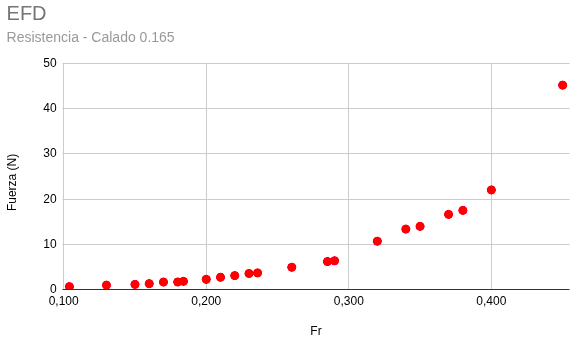
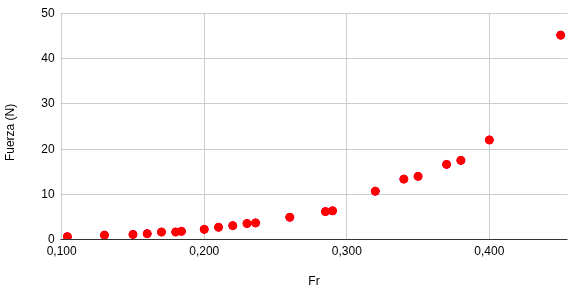
correccioens de referencias y recorte de imagenes

diff --git a/7.resistencia_factor_de_forma.tex b/7.resistencia_factor_de_forma.tex
@@ -50,28 +50,38 @@ Las Figuras~\ref{fig:resis_tpa_165} a \ref{fig:resis_tpa_195} muestran las curva
 
 
 \begin{figure}[htpb]
-\centering
-\includegraphics[width=0.6\textwidth]{images/efd-165}
-\caption{Resistencia al avance en función de Fr. Calado 1.}
-\label{fig:resis_tpa_165}
+     \centering
+     % --- Primera fila: Calados 1 y 2 ---
+     \begin{subfigure}[b]{0.45\textwidth}
+         \centering
+         \includegraphics[width=\textwidth]{images/efd-165}
+         \caption{Calado 1.}
+         \label{fig:resis_tpa_165}
+     \end{subfigure}
+     \hfill
+     \begin{subfigure}[b]{0.45\textwidth}
+         \centering
+         \includegraphics[width=\textwidth]{images/efd-180}
+         \caption{Calado 2.}
+         \label{fig:resis_tpa_180}
+     \end{subfigure}
+     
+     \vspace{0.5cm} % Espacio entre filas
+     
+     % --- Segunda fila: Calado 3 centrado ---
+     \begin{subfigure}[b]{0.45\textwidth}
+         \centering
+         \includegraphics[width=\textwidth]{images/efd-195}
+         \caption{Calado 3.}
+         \label{fig:resis_tpa_195}
+     \end{subfigure}
+     
+     \caption{Resistencia al avance (EFD) en función de Fr para diferentes calados.}
+     \label{fig:comparativa_efd_calados}
 \end{figure}
 
-\begin{figure}[htpb]
-\centering
-\includegraphics[width=0.6\textwidth]{images/efd-180}
-\caption{Resistencia al avance en función de Fr. Calado 2.}
-\label{fig:resis_tpa_180}
-\end{figure}
 
-\begin{figure}[htpb]
-\centering
-\includegraphics[width=0.6\textwidth]{images/efd-195}
-\caption{Resistencia al avance en función de Fr. Calado 3.}
-\label{fig:resis_tpa_195}
-\end{figure}
-
-
-\subsection{Determinación experimental del factor de forma.}
+\subsection{Determinación experimental del factor de forma}\label{sec:det_exp_fac_form}
 
 A partir de los resultados experimentales obtenidos para las distintas velocidades y condiciones de calado, se construyeron los diagramas del método de Prohaska, graficando $\frac{C_T}{C_F}$ frente a $\frac{F_n^4}{C_F}$ (Figura~\ref{fig:prohaska_tpa}).  
 Cada conjunto de puntos corresponde a un calado diferente del Pesquero 1.  
@@ -165,7 +175,7 @@ En síntesis, la desviación respecto de la recta teórica del método de Prohas
   \item Incertidumbres experimentales en la medición de resistencia total.
 \end{itemize}
 
-En las secciones XX XX XX se presenta el impacto de la proa bulbo, la popa espejo sumergida y la elección de la linea de correlación en la determinación del factor de forma.
+En las secciones \ref{sec:proa_bulbo}, \ref{sec:popa_sumergida} y \ref{sec:linea_de_friccion} se presenta el impacto de la proa bulbo, la popa espejo sumergida y la elección de la linea de correlación en la determinación del factor de forma.
 
 \vspace{1em}
 \subsubsection{Modelo de referencia KCS} 
@@ -223,30 +233,40 @@ A continuación, en la Figura \ref{fig:CFD_olas_195_Fr45} se presenta a modo ilu
 
 
 \begin{figure}[htpb]
-\centering
-\includegraphics[width=0.6\textwidth]{images/cfd-165}
-\caption{Resistencia al avance en función de Fr. Calado 1.}
-\label{fig:cfd_165_tpa}
+     \centering
+     % --- Primera fila (2 imágenes) ---
+     \begin{subfigure}[b]{0.45\textwidth}
+         \centering
+         \includegraphics[width=\textwidth]{images/cfd-165}
+         \caption{Calado 1.}
+         \label{fig:cfd_165_tpa}
+     \end{subfigure}
+     \hfill
+     \begin{subfigure}[b]{0.45\textwidth}
+         \centering
+         \includegraphics[width=\textwidth]{images/cfd-180}
+         \caption{Calado 2.}
+         \label{fig:cfd_180_tpa}
+     \end{subfigure}
+     
+     \vspace{0.5cm} % Espacio vertical entre filas
+     
+     % --- Segunda fila (1 imagen centrada) ---
+     \begin{subfigure}[b]{0.45\textwidth}
+         \centering
+         \includegraphics[width=\textwidth]{images/cfd-195}
+         \caption{Calado 3.}
+         \label{fig:cfd_195_tpa}
+     \end{subfigure}
+     
+     \caption{Resistencia al avance en función de Fr para diferentes calados.}
+     \label{fig:comparativa_calados}
 \end{figure}
 
-\begin{figure}[htpb]
-\centering
-\includegraphics[width=0.6\textwidth]{images/cfd-180}
-\caption{Resistencia al avance en función de Fr. Calado 2.}
-\label{fig:cfd_180_tpa}
-\end{figure}
 
-\begin{figure}[htpb]
-\centering
-\includegraphics[width=0.6\textwidth]{images/cfd-195}
-\caption{Resistencia al avance en función de Fr. Calado 3.}
-\label{fig:cfd_195_tpa}
-\end{figure}
+\subsection{Determinación numérica del factor de forma}\label{sec:det_num_fac_form}
 
-
-\subsection{Determinación numérica del factor de forma.}
-
-Para la determinación computacional del factor de forma se implementaron dos métodos. El primero fue repetir lo propuesto por Prohaska para lo tres calados con el dominio presentado en la Figura \ref{fig:dominio}, lo que permite una comparación directa con el ensayo experimental. Como sucedió en los ensayos experimentales, a bajas velocidades también se observa en los ensayos CFD una separación de los puntos respecto de la recta teórica esperada, pero esta vez de forma cóncava en lugar de convexa, como se ve en la Figura \ref{fig:prohaska_tpa_cfd}.
+Para la determinación computacional del factor de forma se implementaron dos métodos. El primero fue repetir lo propuesto por Prohaska para lo tres calados con el dominio presentado en la Figura \ref{fig:dominio_metodologia}, lo que permite una comparación directa con el ensayo experimental. Como sucedió en los ensayos experimentales, a bajas velocidades también se observa en los ensayos CFD una separación de los puntos respecto de la recta teórica esperada, pero esta vez de forma cóncava en lugar de convexa, como se ve en la Figura \ref{fig:prohaska_tpa_cfd}.
 
 
 \begin{figure}[htpb]
@@ -267,11 +287,11 @@ Al igual que se hizo con los ensayos experimentales, se repite el análisis de r
 \label{fig:tpa_range_cfd}
 \end{figure}
 
-\subsection{Enfoque de Doble Cuerpo (Double Body)}
+\subsection{Enfoque de Doble Cuerpo}
 
-Ante las dificultades observadas para aplicar el método de Prohaska en el entorno numérico —debido a la incertidumbre en la transición de la turbulencia y la curvatura a bajas velocidades— se optó por una estrategia alternativa: el método de \textit{doble cuerpo}.
+Ante las dificultades observadas para aplicar el método de Prohaska en el entorno numérico, debido a la incertidumbre en la transición de la turbulencia y la curvatura a bajas velocidades, se optó por una estrategia alternativa: el método de \textit{doble cuerpo}.
 
-Como se detalló en la Sección 3.4.2, este enfoque elimina la superficie libre y la formación de olas, modelando el fluido como un medio infinito y el casco como un cuerpo reflejado (ver Figura \ref{fig:double_body_domain}). Esto permite aislar la resistencia viscosa ($R_V$) y calcular el factor de forma $(1+k)$ directamente para cada velocidad mediante la relación $C_V / C_{F,ref}$, sin depender de la extrapolación a velocidad cero.
+Como se detalló en la Sección \ref{sec:doble_cuerpo}, este enfoque elimina la superficie libre y la formación de olas, modelando el fluido como un medio infinito y el casco como un cuerpo reflejado (ver Figura \ref{fig:double_body_domain}). Esto permite aislar la resistencia viscosa ($R_V$) y calcular el factor de forma $(1+k)$ directamente para cada velocidad mediante la relación $C_V / C_{F,ref}$, sin depender de la extrapolación a velocidad cero.
 
 \subsubsection{Análisis del Pesquero 1}
 
@@ -414,7 +434,7 @@ De la Figura \ref{fig:prohaska_tpa_efd_cfd_165} a la \ref{fig:prohaska_tpa_efd_c
 \label{fig:resis_tpa_efd_cfd_195}
 \end{figure}
 
-\paragraph{Factor de forma} Como fue mencionado en las secciones XX y XX, tanto para el cálculo experimental como para el computacional, no fue posible ajustar la recta esperada por el método Prohaska a bajas velocidades, como se ve en la comparación de la Figura \ref{fig:prohaska_tpa_efd_cfd_165} a la Figura Figura \ref{fig:prohaska_tpa_efd_cfd_195}. En los casos experimentales debido a la laminarización y en las simulaciones debido al uso de modelos de turbulencia que asumen flujos totalmente turbulentos, en flujos que están claramente en Reynolds de transición.
+\paragraph{Factor de forma} Como fue mencionado en las secciones \ref{sec:det_exp_fac_form} y \ref{sec:det_num_fac_form}, tanto para el cálculo experimental como para el computacional, no es posible ajustar la recta esperada por el método Prohaska a bajas velocidades, como se muestra en la comparación de la Figura \ref{fig:prohaska_tpa_efd_cfd_165} a la Figura Figura \ref{fig:prohaska_tpa_efd_cfd_195}. En los casos experimentales debido a la laminarización y en las simulaciones debido al uso de modelos de turbulencia que no logran reproducir esa laminarización, desarrollando un flujo completamente turbulento.
 
 \begin{figure}[htpb]
 \centering
@@ -441,47 +461,67 @@ De la Figura \ref{fig:prohaska_tpa_efd_cfd_165} a la \ref{fig:prohaska_tpa_efd_c
 A medida que se redujo el rango de Froude para la extrapolación de Prohaska se observó convergencia entre factor de forma experimental y computacional. Esto eliminó las diferencias encontradas a bajas velocidades y validó tanto los esquipos del laboratorio como la configuración numérica.
 
 \begin{figure}[htpb]
-\centering
-\includegraphics[width=0.6\textwidth]{images/efd_cfd_form_factor_tpa_165_range}
-\caption{Variación del factor de forma experimental $(1+k)$ para el Pesquero 1 en función del rango de Froude utilizado en el ajuste de Prohaska. Calado 1.}
-\label{fig:efd_cfd_165_tpa_range}
-\end{figure}
-
-\begin{figure}[htpb]
-\centering
-\includegraphics[width=0.6\textwidth]{images/efd_cfd_form_factor_tpa_165_range}
-\caption{Variación del factor de forma experimental $(1+k)$ para el Pesquero 1 en función del rango de Froude utilizado en el ajuste de Prohaska. Calado 2.}
-\label{fig:efd_cfd_180_tpa_range}
-\end{figure}
-
-\begin{figure}[htpb]
-\centering
-\includegraphics[width=0.6\textwidth]{images/efd_cfd_form_factor_tpa_165_range}
-\caption{Variación del factor de forma experimental $(1+k)$ para el Pesquero 1 en función del rango de Froude utilizado en el ajuste de Prohaska. Calado 3.}
-\label{fig:efd_cfd_195_tpa_range}
+     \centering
+     % --- Fila superior: Calados 1 y 2 ---
+     \begin{subfigure}[b]{0.48\textwidth}
+         \centering
+         \includegraphics[width=\textwidth]{images/efd_cfd_form_factor_tpa_165_range}
+         \caption{Calado 1.}
+         \label{fig:efd_cfd_165_tpa_range}
+     \end{subfigure}
+     \hfill
+     \begin{subfigure}[b]{0.48\textwidth}
+         \centering
+         \includegraphics[width=\textwidth]{images/efd_cfd_form_factor_tpa_180_range}
+         \caption{Calado 2.}
+         \label{fig:efd_cfd_180_tpa_range}
+     \end{subfigure}
+     
+     \vspace{0.5cm} % Espacio vertical entre filas
+     
+     % --- Fila inferior: Calado 3 centrado ---
+     \begin{subfigure}[b]{0.48\textwidth}
+         \centering
+         \includegraphics[width=\textwidth]{images/efd_cfd_form_factor_tpa_195_range}
+         \caption{Calado 3.}
+         \label{fig:efd_cfd_195_tpa_range}
+     \end{subfigure}
+     
+     \caption{Variación del factor de forma experimental $(1+k)$ para el Pesquero 1 en función del rango de Froude utilizado en el ajuste de Prohaska.}
+     \label{fig:comparativa_form_factor_range}
 \end{figure}
 
 En el caso de la comparación del médoto de Prohaska, ya sea experimental o computacional, con el método de doble cuerpo, surge un nuevo interrogante. Se observa en las Figuras \ref{fig:tpa_proj_DB_k_escala20_165} a \ref{fig:tpa_proj_DB_k_escala20_195} que el valor adoptado como válido por el análisis de reducción del rango de Froude cae en el rango $0.10 < Fr < 0.20$ de los obtenidos por el método de doble cuerpo. Esto puede deberse a que el Pesquero 1 esté siendo analizado en un rango de $Rn$ complicado para el modelo de turbulencia elegido, presentando la joroba observada en el análisis del KCS, o a algún comportamiento particular del factor de forma del Pesquero 1. Esto será analizado en la sección XX.
 
 \begin{figure}[htpb]
-\centering
-\includegraphics[width=0.6\textwidth, trim=3.5cm 8cm 4cm 8cm, clip]{images/tpa_CFD_DC_proj_165.pdf}
-\caption{Comparación de factor de forma experimental y computacional adoptado con valores obtenidos por método de doble cuerpo. Calado 1.}
-\label{fig:tpa_proj_DB_k_escala20_165}
-\end{figure}
-
-\begin{figure}[htpb]
-\centering
-\includegraphics[width=0.6\textwidth, trim=3.5cm 8cm 4cm 8cm, clip]{images/tpa_CFD_DC_proj_180.pdf}
-\caption{Comparación de factor de forma experimental y computacional adoptado con valores obtenidos por método de doble cuerpo. Calado 2.}
-\label{fig:tpa_proj_DB_k_escala20_180}
-\end{figure}
-
-\begin{figure}[htpb]
-\centering
-\includegraphics[width=0.6\textwidth, trim=3.5cm 8cm 4cm 8cm, clip]{images/tpa_CFD_DC_proj_195.pdf}
-\caption{Comparación de factor de forma experimental y computacional adoptado con valores obtenidos por método de doble cuerpo. Calado 3.}
-\label{fig:tpa_proj_DB_k_escala20_195}
+     \centering
+     % --- Primera fila: Calados 1 y 2 ---
+     \begin{subfigure}[b]{0.48\textwidth}
+         \centering
+         \includegraphics[width=\textwidth, trim=3.5cm 8cm 4cm 8cm, clip]{images/tpa_CFD_DC_proj_165.pdf}
+         \caption{Calado 1.}
+         \label{fig:tpa_proj_DB_k_escala20_165}
+     \end{subfigure}
+     \hfill
+     \begin{subfigure}[b]{0.48\textwidth}
+         \centering
+         \includegraphics[width=\textwidth, trim=3.5cm 8cm 4cm 8cm, clip]{images/tpa_CFD_DC_proj_180.pdf}
+         \caption{Calado 2.}
+         \label{fig:tpa_proj_DB_k_escala20_180}
+     \end{subfigure}
+     
+     \vspace{0.5cm} % Espacio entre filas
+     
+     % --- Segunda fila: Calado 3 centrado ---
+     \begin{subfigure}[b]{0.48\textwidth}
+         \centering
+         \includegraphics[width=\textwidth, trim=3.5cm 8cm 4cm 8cm, clip]{images/tpa_CFD_DC_proj_195.pdf}
+         \caption{Calado 3.}
+         \label{fig:tpa_proj_DB_k_escala20_195}
+     \end{subfigure}
+     
+     \caption{Comparación de factor de forma experimental y computacional adoptado con valores obtenidos por método de doble cuerpo para los tres calados analizados.}
+     \label{fig:comparativa_doble_cuerpo}
 \end{figure}
 
 \subsection{Discusión de incertidumbres y diferencias entre EFD y CFD}
@@ -696,7 +736,7 @@ La comparación entre escala modelo y escala real muestra que el efecto del núm
 
 El déficit persistente de presión en popa, prácticamente invariante con el número de Reynolds, constituye así el mecanismo físico principal que distingue a los cascos de baja esbeltez de los cascos esbeltos convencionales. En este tipo de geometrías, las pérdidas por presión viscosa dominan la resistencia viscosa total y limitan la validez de los supuestos clásicos de extrapolación, reforzando la necesidad de considerar explícitamente los efectos geométricos en la estimación del factor de forma.
 
-\section{Influencia de la proa bulbo en el factor de forma}
+\section{Influencia de la proa bulbo en el factor de forma}\label{sec:proa_bulbo}
 
 \subsection{Motivación y antecedentes sobre proa bulbo en pesqueros}
 
@@ -806,7 +846,7 @@ Esto indica que su efecto es esencialmente global, asociado a una redistribució
 En síntesis, el bulbo incrementa el factor de forma y la resistencia viscosa, pero a la vez reduce la resistencia por olas dentro del rango de diseño.  
 A calados reducidos, este balance resulta favorable para la resistencia total, mientras que a mayor calado el beneficio desaparece.   \textcolor{red}{Siento que queda corto por no tener análisis del resto de las escalas}
 
-\section{Influencia de la popa sumergida en el factor de forma}
+\section{Influencia de la popa sumergida en el factor de forma}\label{sec:popa_sumergida}
 
 \subsection{Introducción y motivación del estudio}
 

diff --git a/6.metodologia_general.tex b/6.metodologia_general.tex
@@ -142,7 +142,7 @@ El mallado se generó con \texttt{snappyHexMesh}, utilizando una estructura pred
 
 Se emplearon dos configuraciones de simulación distintas. A continuación se detallan las condiciones de contorno específicas seleccionadas para garantizar la estabilidad y conservación de masa en el dominio.
 
-\subsubsection{1. Simulación con Superficie Libre (Resistencia Total)}
+\subsubsection{Simulación con Superficie Libre}
 Esta configuración replica el ensayo de canal para obtener la resistencia total ($R_T$) y el campo de olas.
 
 \begin{itemize}
@@ -154,7 +154,7 @@ La Figura \ref{fig:dominio_metodologia} esquematiza el dominio computacional uti
 
 \begin{figure}[htpb]
     \centering
-    \includegraphics[width=0.6\textwidth]{images/domain}
+    \includegraphics[width=0.6\textwidth]{images/domain.png}
     \caption{Dominio computacional y condiciones de contorno para las simulaciones de resistencia con superficie libre.}
     \label{fig:dominio_metodologia}
 \end{figure}
@@ -194,7 +194,7 @@ $\nu_t$ & calc. & calc. & calc. & nutkWF \\
     \item \textbf{kLRWF} / \textbf{oWF} / \textbf{nutkWF}: Funciones de pared para turbulencia.
 \end{itemize}
 
-\subsubsection{2. Simulación de Doble Cuerpo (Double Body)}
+\subsubsection{Simulación de Doble Cuerpo}\label{sec:doble_cuerpo}
 
 Esta configuración se utiliza exclusivamente para aislar la resistencia viscosa ($R_V$) y determinar el factor de forma $(1+k)$. El término "Doble Cuerpo" hace referencia al concepto aerodinámico de reflejar el casco sumergido respecto al plano de flotación, generando un cuerpo equivalente completamente sumergido en un fluido infinito.
 